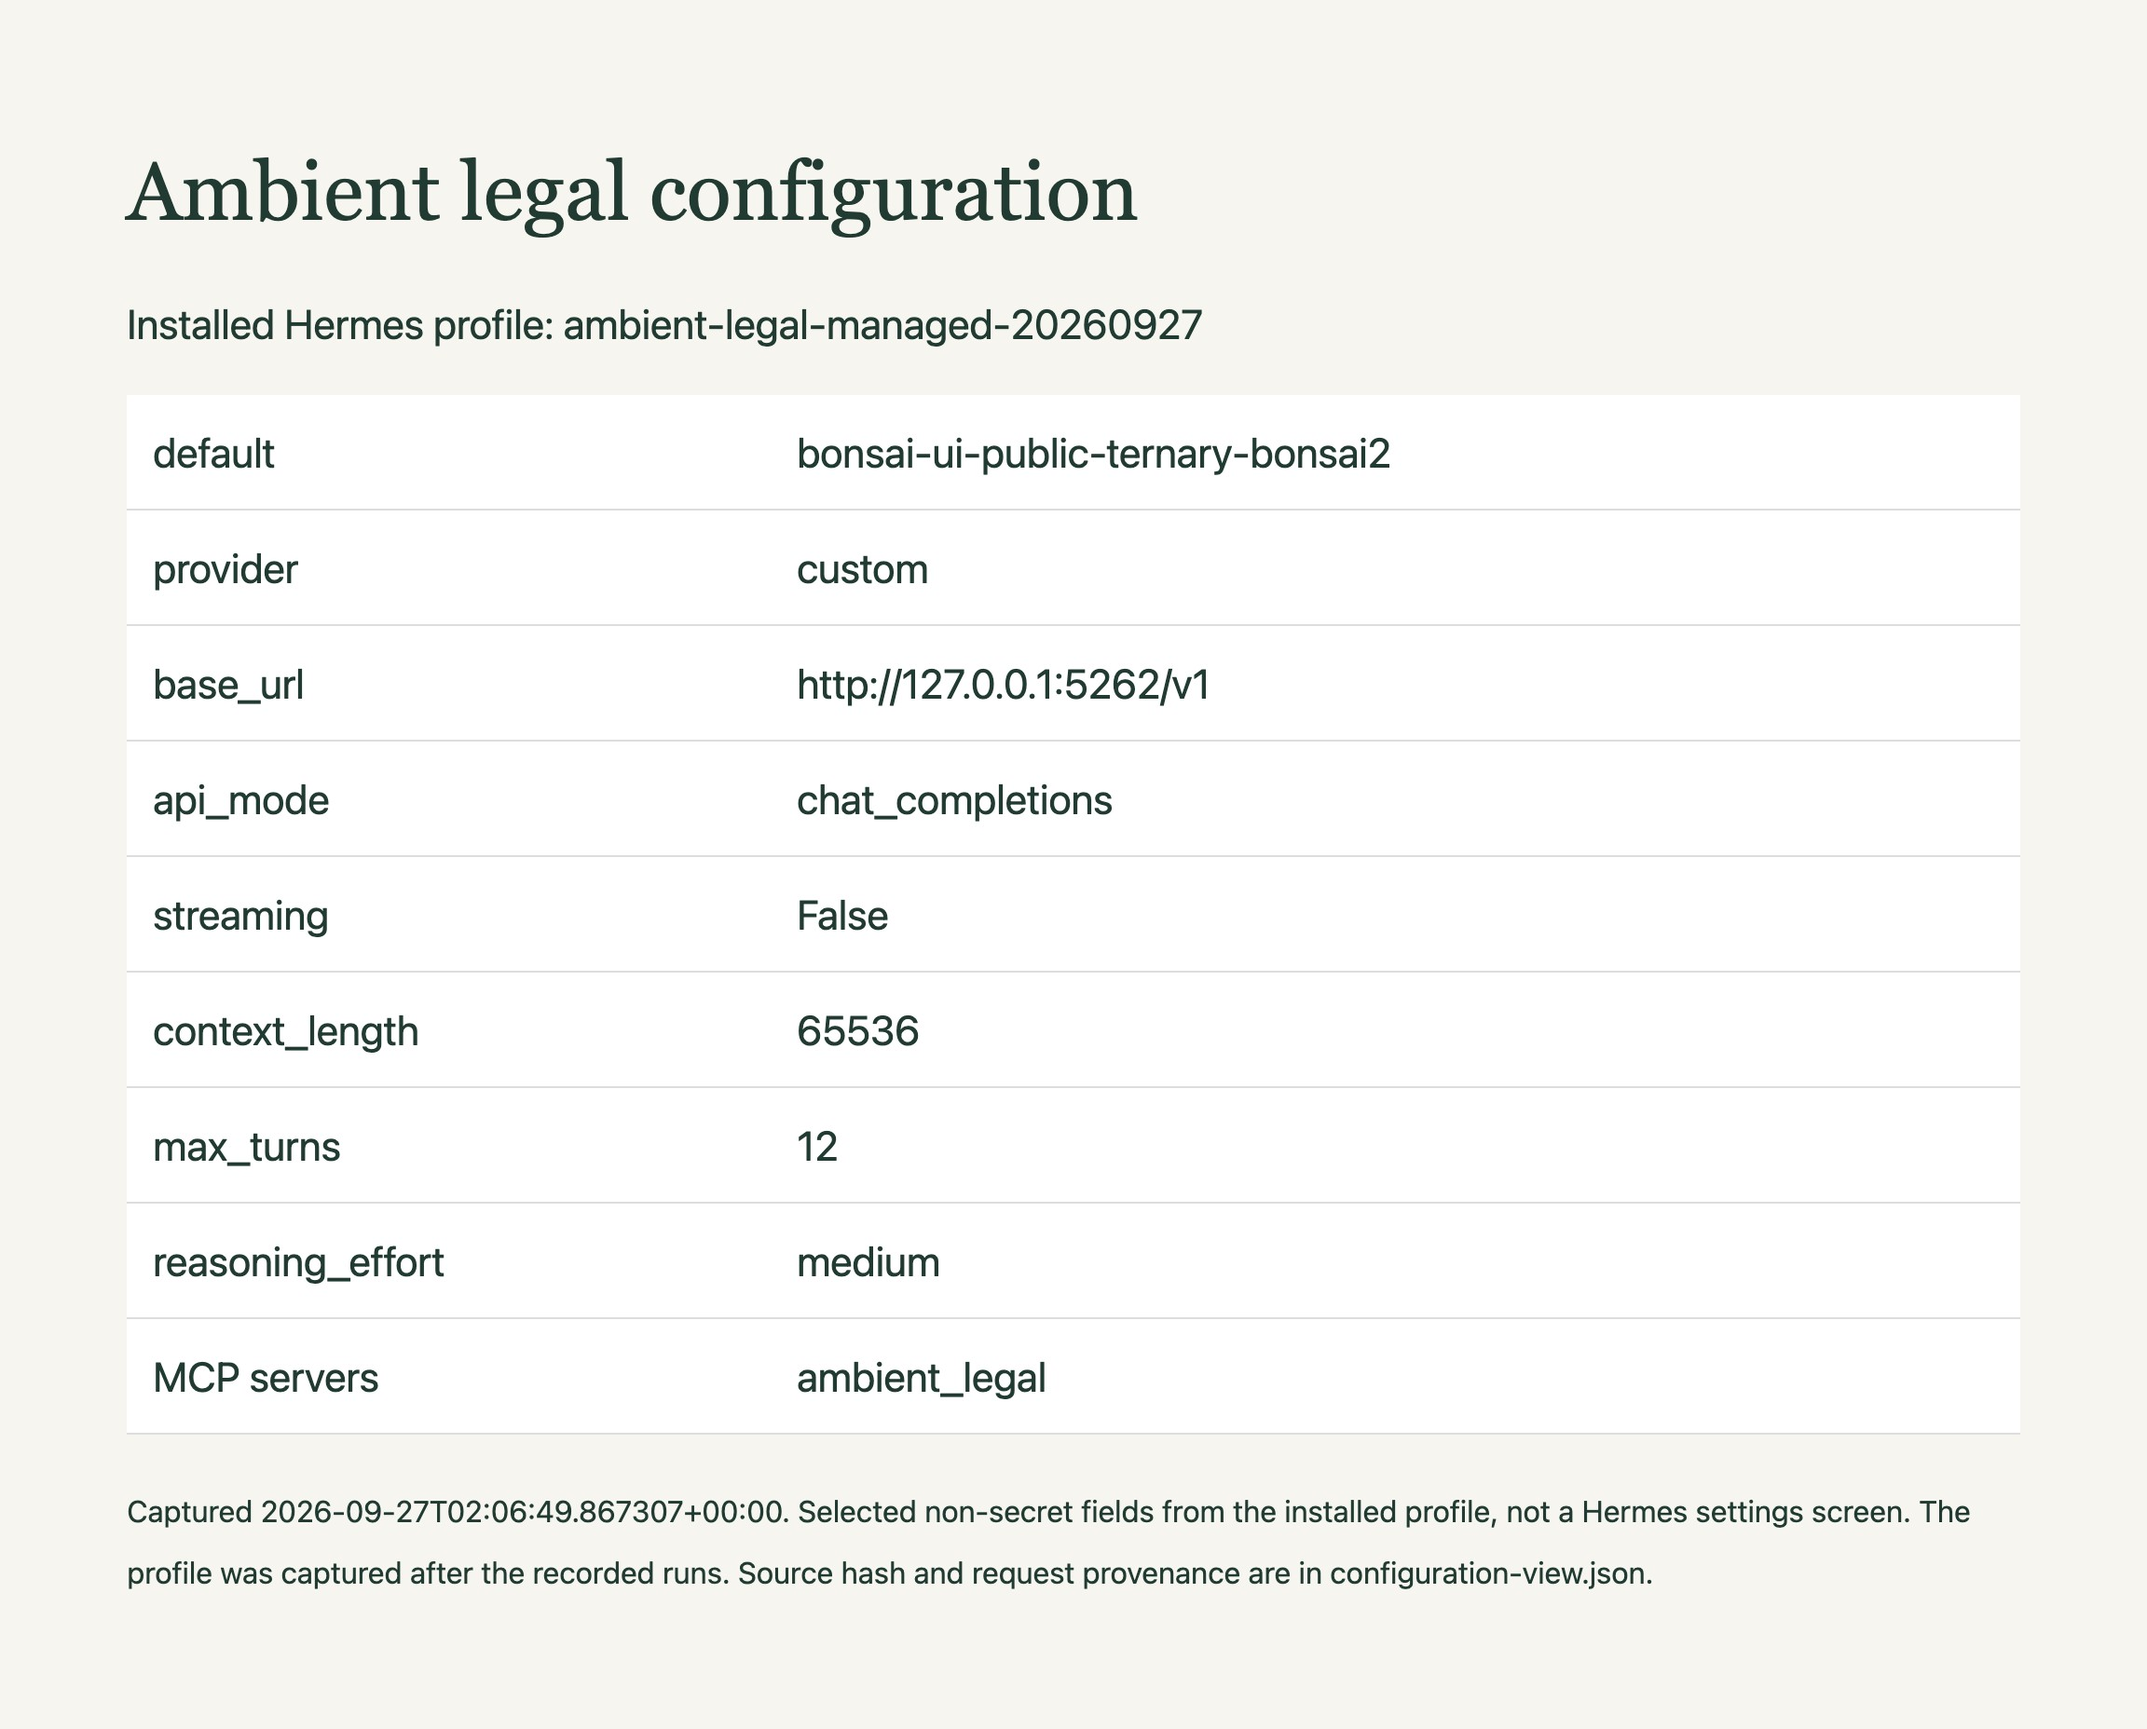
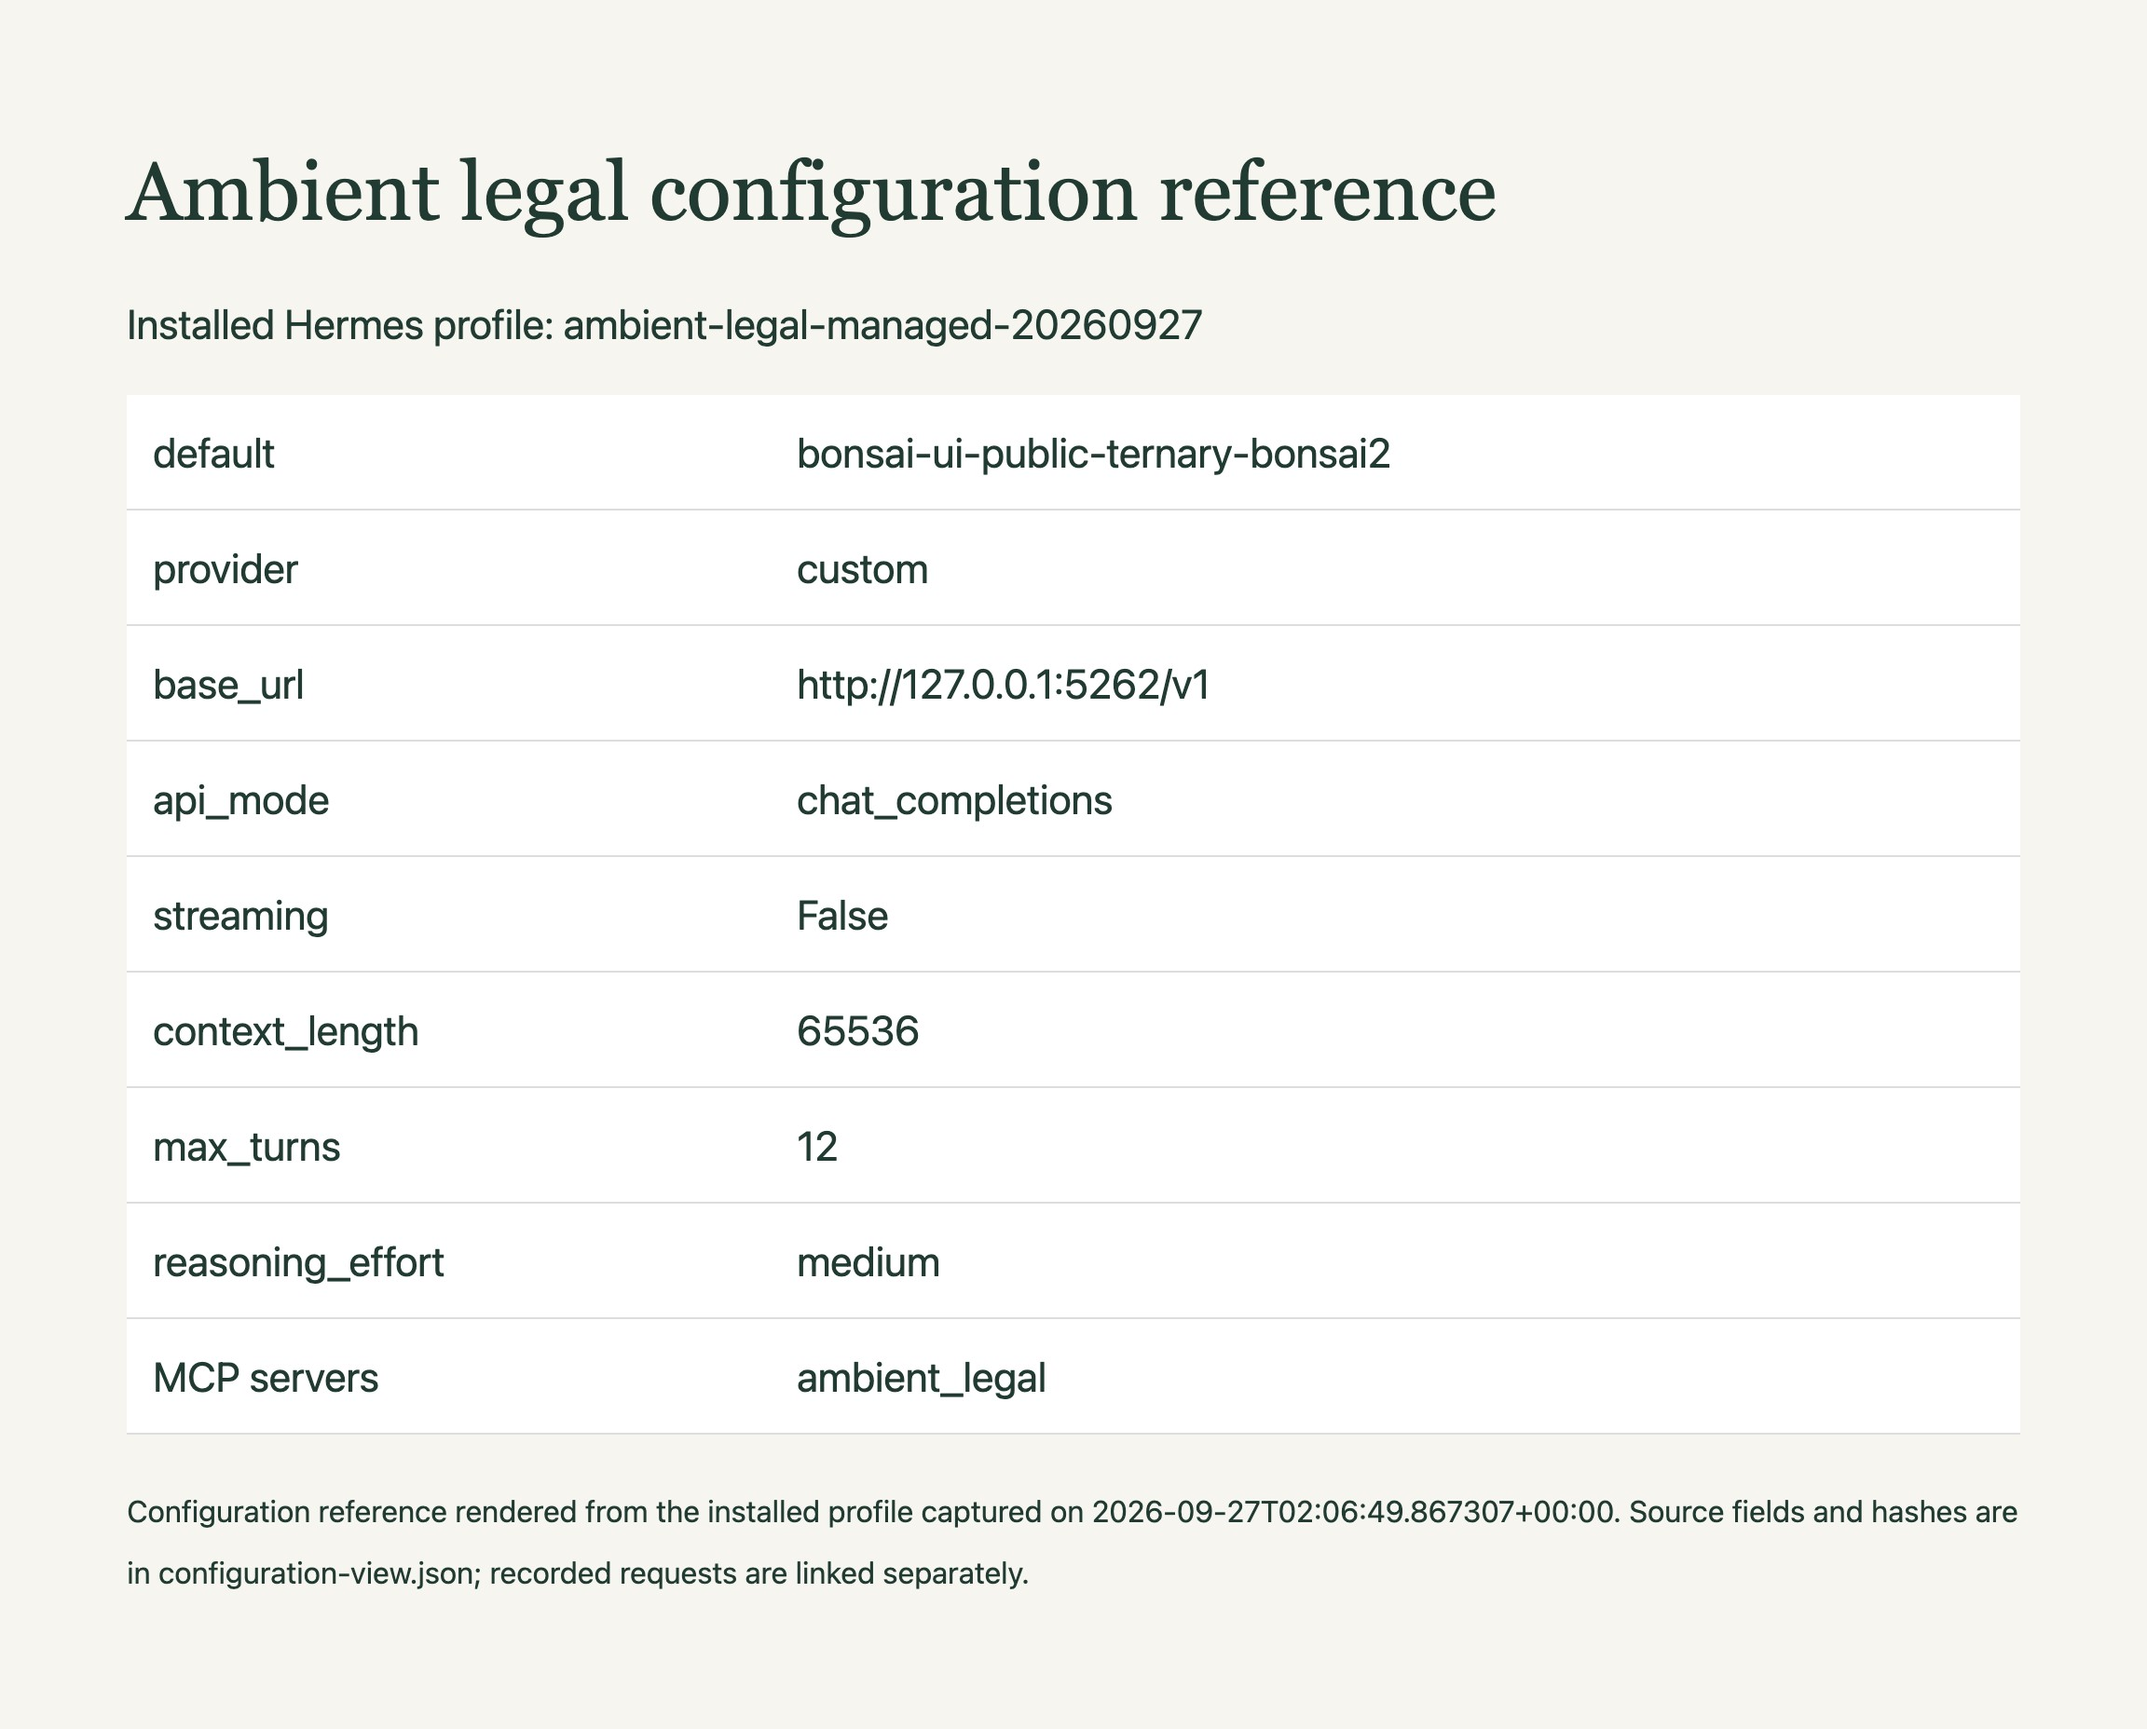
Clarify configuration provenance captions

Changed region(s): [[0.0625, 0.8438, 0.8125, 0.9375], [0.5312, 0.0938, 0.6875, 0.125], [0.8438, 0.875, 0.9062, 0.9062]]

diff --git a/evidence/configuration-view.html b/evidence/configuration-view.html
@@ -1,1 +1,1 @@
-<!doctype html><html><meta charset="utf-8"><title>ambient-legal configuration</title><style>body{font:22px/1.5 system-ui;background:#f6f5ef;color:#173b31;padding:40px 60px}h1{font:44px Georgia}table{width:100%;border-collapse:collapse;background:white}td{padding:14px;border-bottom:1px solid #ddd}td:first-child{width:34%}small{font-size:16px}pre{font-size:18px}</style><h1>Ambient legal configuration</h1><p>Installed Hermes profile: ambient-legal-managed-20260927</p><table><tr><td>default</td><td>bonsai-ui-public-ternary-bonsai2</td></tr><tr><td>provider</td><td>custom</td></tr><tr><td>base_url</td><td>http://127.0.0.1:5262/v1</td></tr><tr><td>api_mode</td><td>chat_completions</td></tr><tr><td>streaming</td><td>False</td></tr><tr><td>context_length</td><td>65536</td></tr><tr><td>max_turns</td><td>12</td></tr><tr><td>reasoning_effort</td><td>medium</td></tr><tr><td>MCP servers</td><td>ambient_legal</td></tr></table><p><small>Captured 2026-09-27T02:06:49.867307+00:00. Selected non-secret fields from the installed profile, not a Hermes settings screen. The profile was captured after the recorded runs. Source hash and request provenance are in configuration-view.json.</small></p></html>
+<!doctype html><html><meta charset="utf-8"><title>ambient-legal configuration</title><style>body{font:22px/1.5 system-ui;background:#f6f5ef;color:#173b31;padding:40px 60px}h1{font:44px Georgia}table{width:100%;border-collapse:collapse;background:white}td{padding:14px;border-bottom:1px solid #ddd}td:first-child{width:34%}small{font-size:16px}pre{font-size:18px}</style><h1>Ambient legal configuration reference</h1><p>Installed Hermes profile: ambient-legal-managed-20260927</p><table><tr><td>default</td><td>bonsai-ui-public-ternary-bonsai2</td></tr><tr><td>provider</td><td>custom</td></tr><tr><td>base_url</td><td>http://127.0.0.1:5262/v1</td></tr><tr><td>api_mode</td><td>chat_completions</td></tr><tr><td>streaming</td><td>False</td></tr><tr><td>context_length</td><td>65536</td></tr><tr><td>max_turns</td><td>12</td></tr><tr><td>reasoning_effort</td><td>medium</td></tr><tr><td>MCP servers</td><td>ambient_legal</td></tr></table><p><small>Configuration reference rendered from the installed profile captured on 2026-09-27T02:06:49.867307+00:00. Source fields and hashes are in configuration-view.json; recorded requests are linked separately.</small></p></html>

diff --git a/docs/recorded-configuration.md b/docs/recorded-configuration.md
@@ -2,8 +2,8 @@
 
 ![Selected installed Hermes configuration](images/configuration.jpg)
 
-The image shows selected fields from the installed `ambient-legal-managed-20260927` profile. It is a configuration reference rendered from actual saved settings, not a Hermes application screen. The [source record](../evidence/configuration-view.json) includes the capture time and SHA-256 of the source profile. Credentials, tool environments and local paths are excluded. The profile was captured after the runs, so it does not independently prove the exact configuration of an earlier run.
+The image is a configuration reference rendered from selected fields in the installed `ambient-legal-managed-20260927` profile. The [source record](../evidence/configuration-view.json) records the capture time and profile hash. This snapshot was captured after the runs; use the linked HTTP exchanges to inspect settings applied to a recorded request.
 
 Create an isolated profile with the repository setup command, then inspect its model endpoint and MCP tool paths before starting the gateway or scheduler. Setup templates and the installed profile can differ. A service using an existing profile must reload after its configuration changes.
 
-The model alias alone does not establish the GGUF, runtime build or effective sampling values. Use the launch guide and recorded HTTP requests to check those separately. No matched optimization or cost reduction is established by this screenshot.
+Use the launch guide to match the GGUF and runtime build, then inspect the recorded HTTP request for the effective sampling values.
